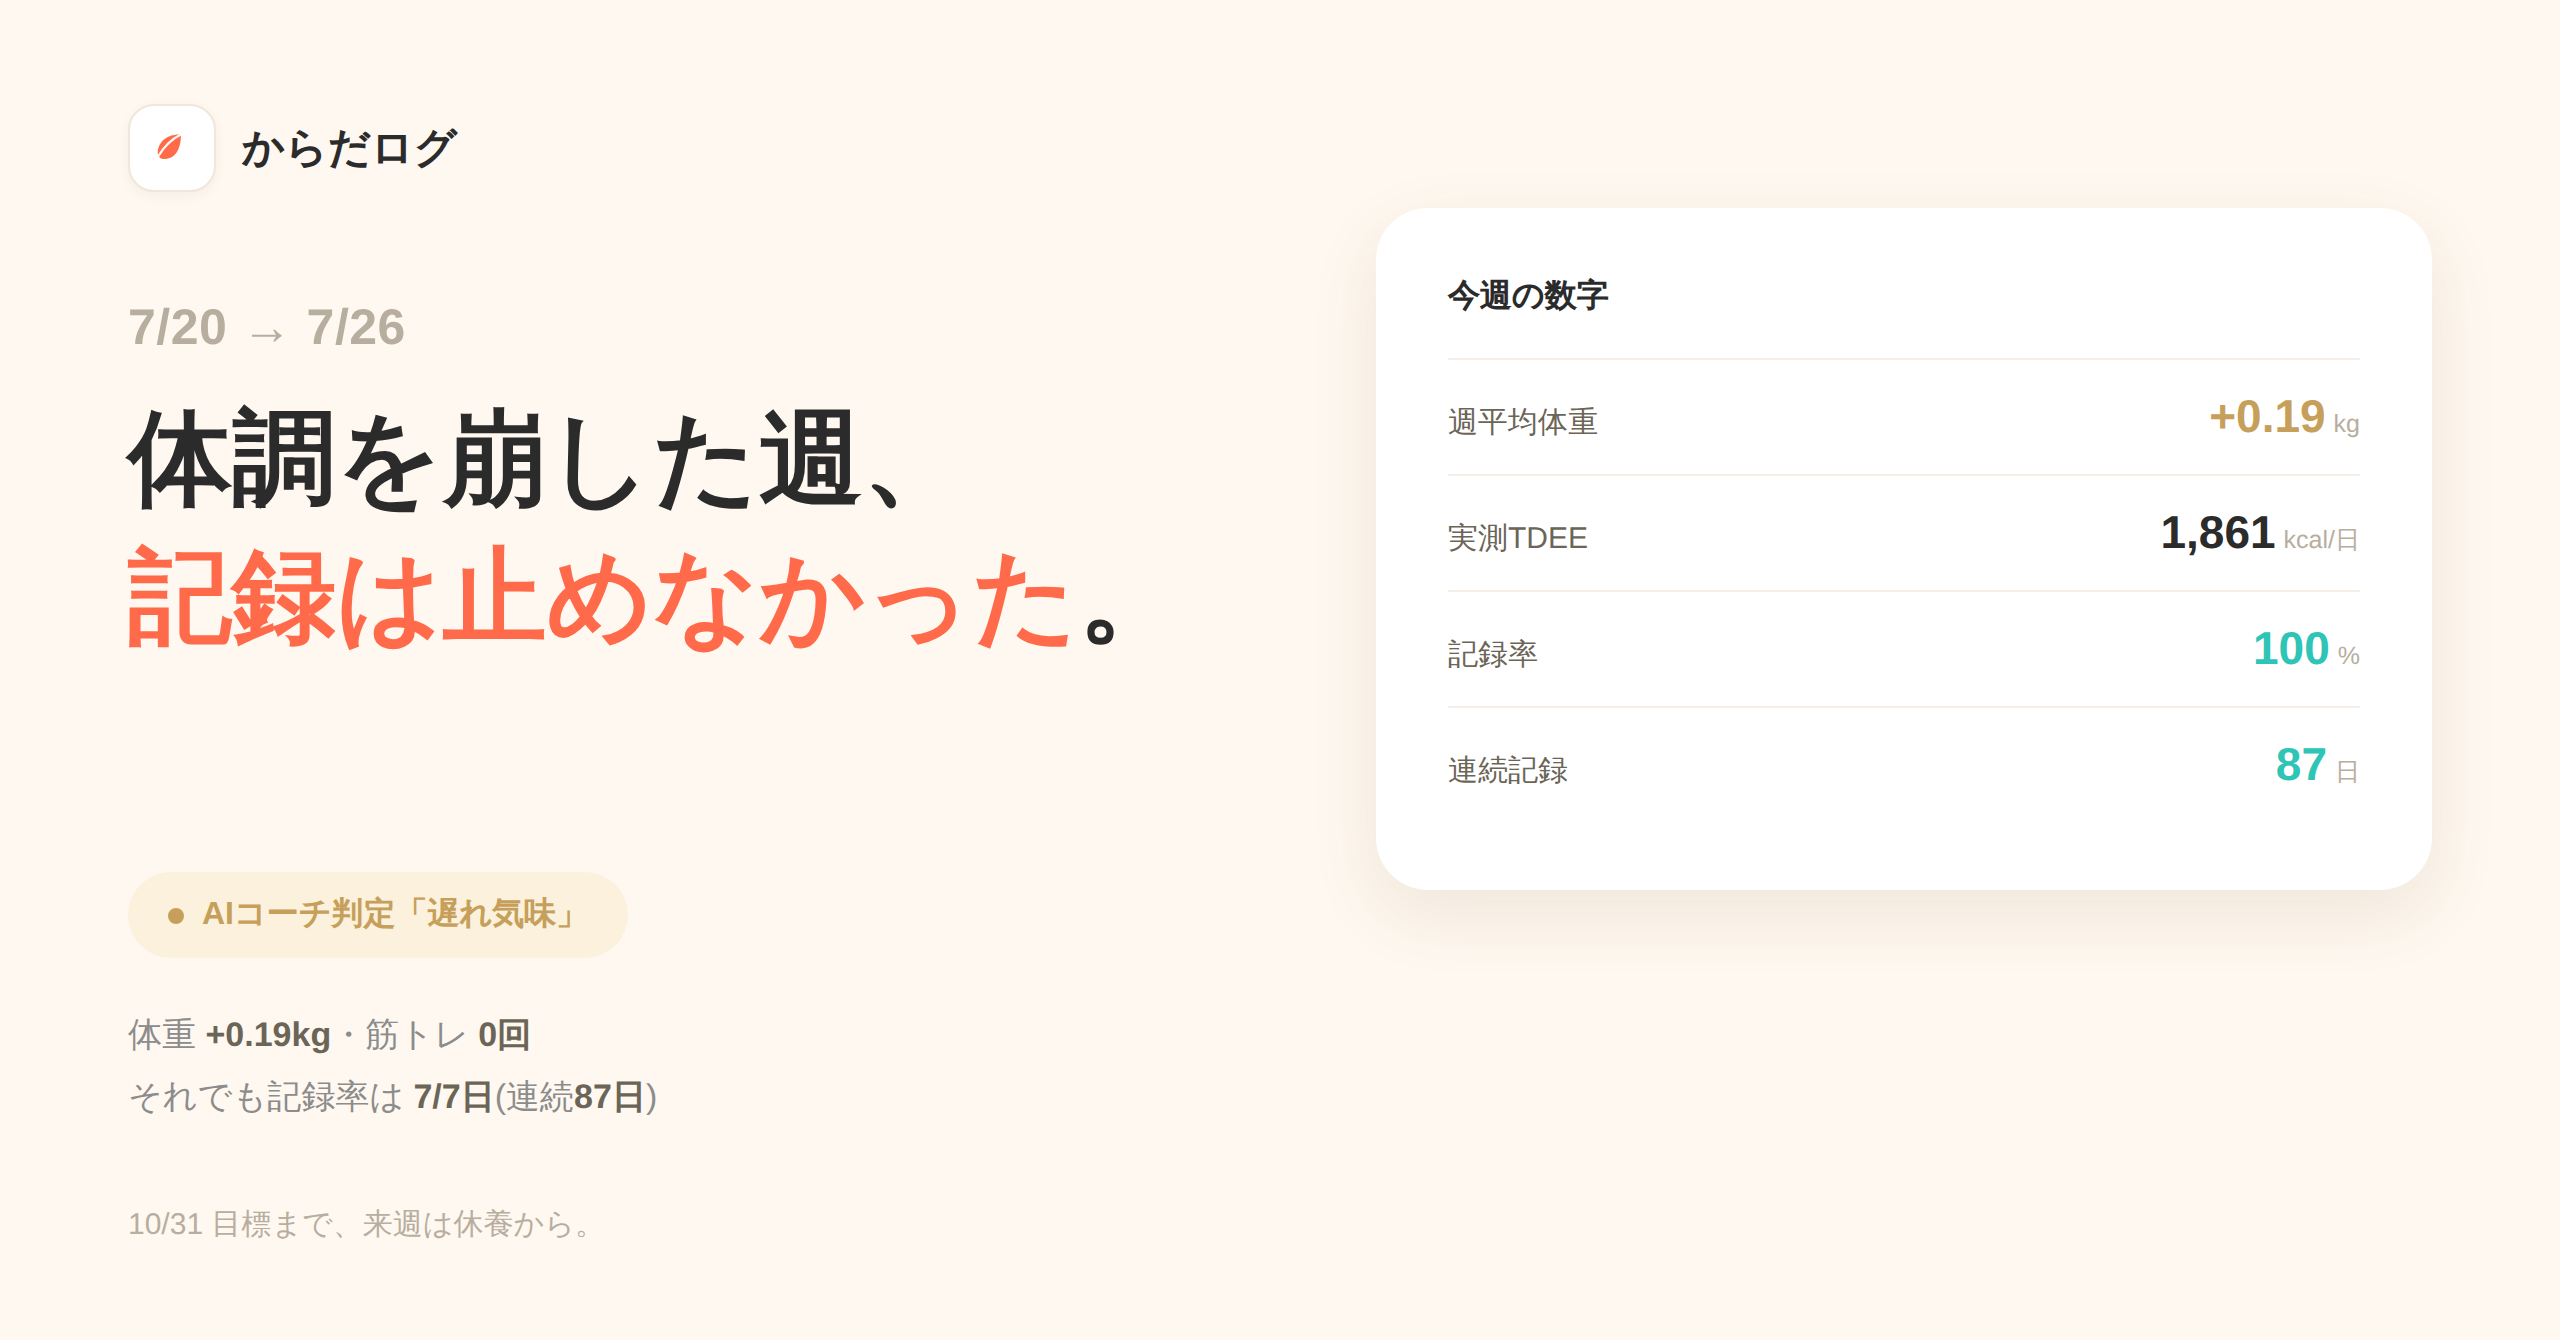
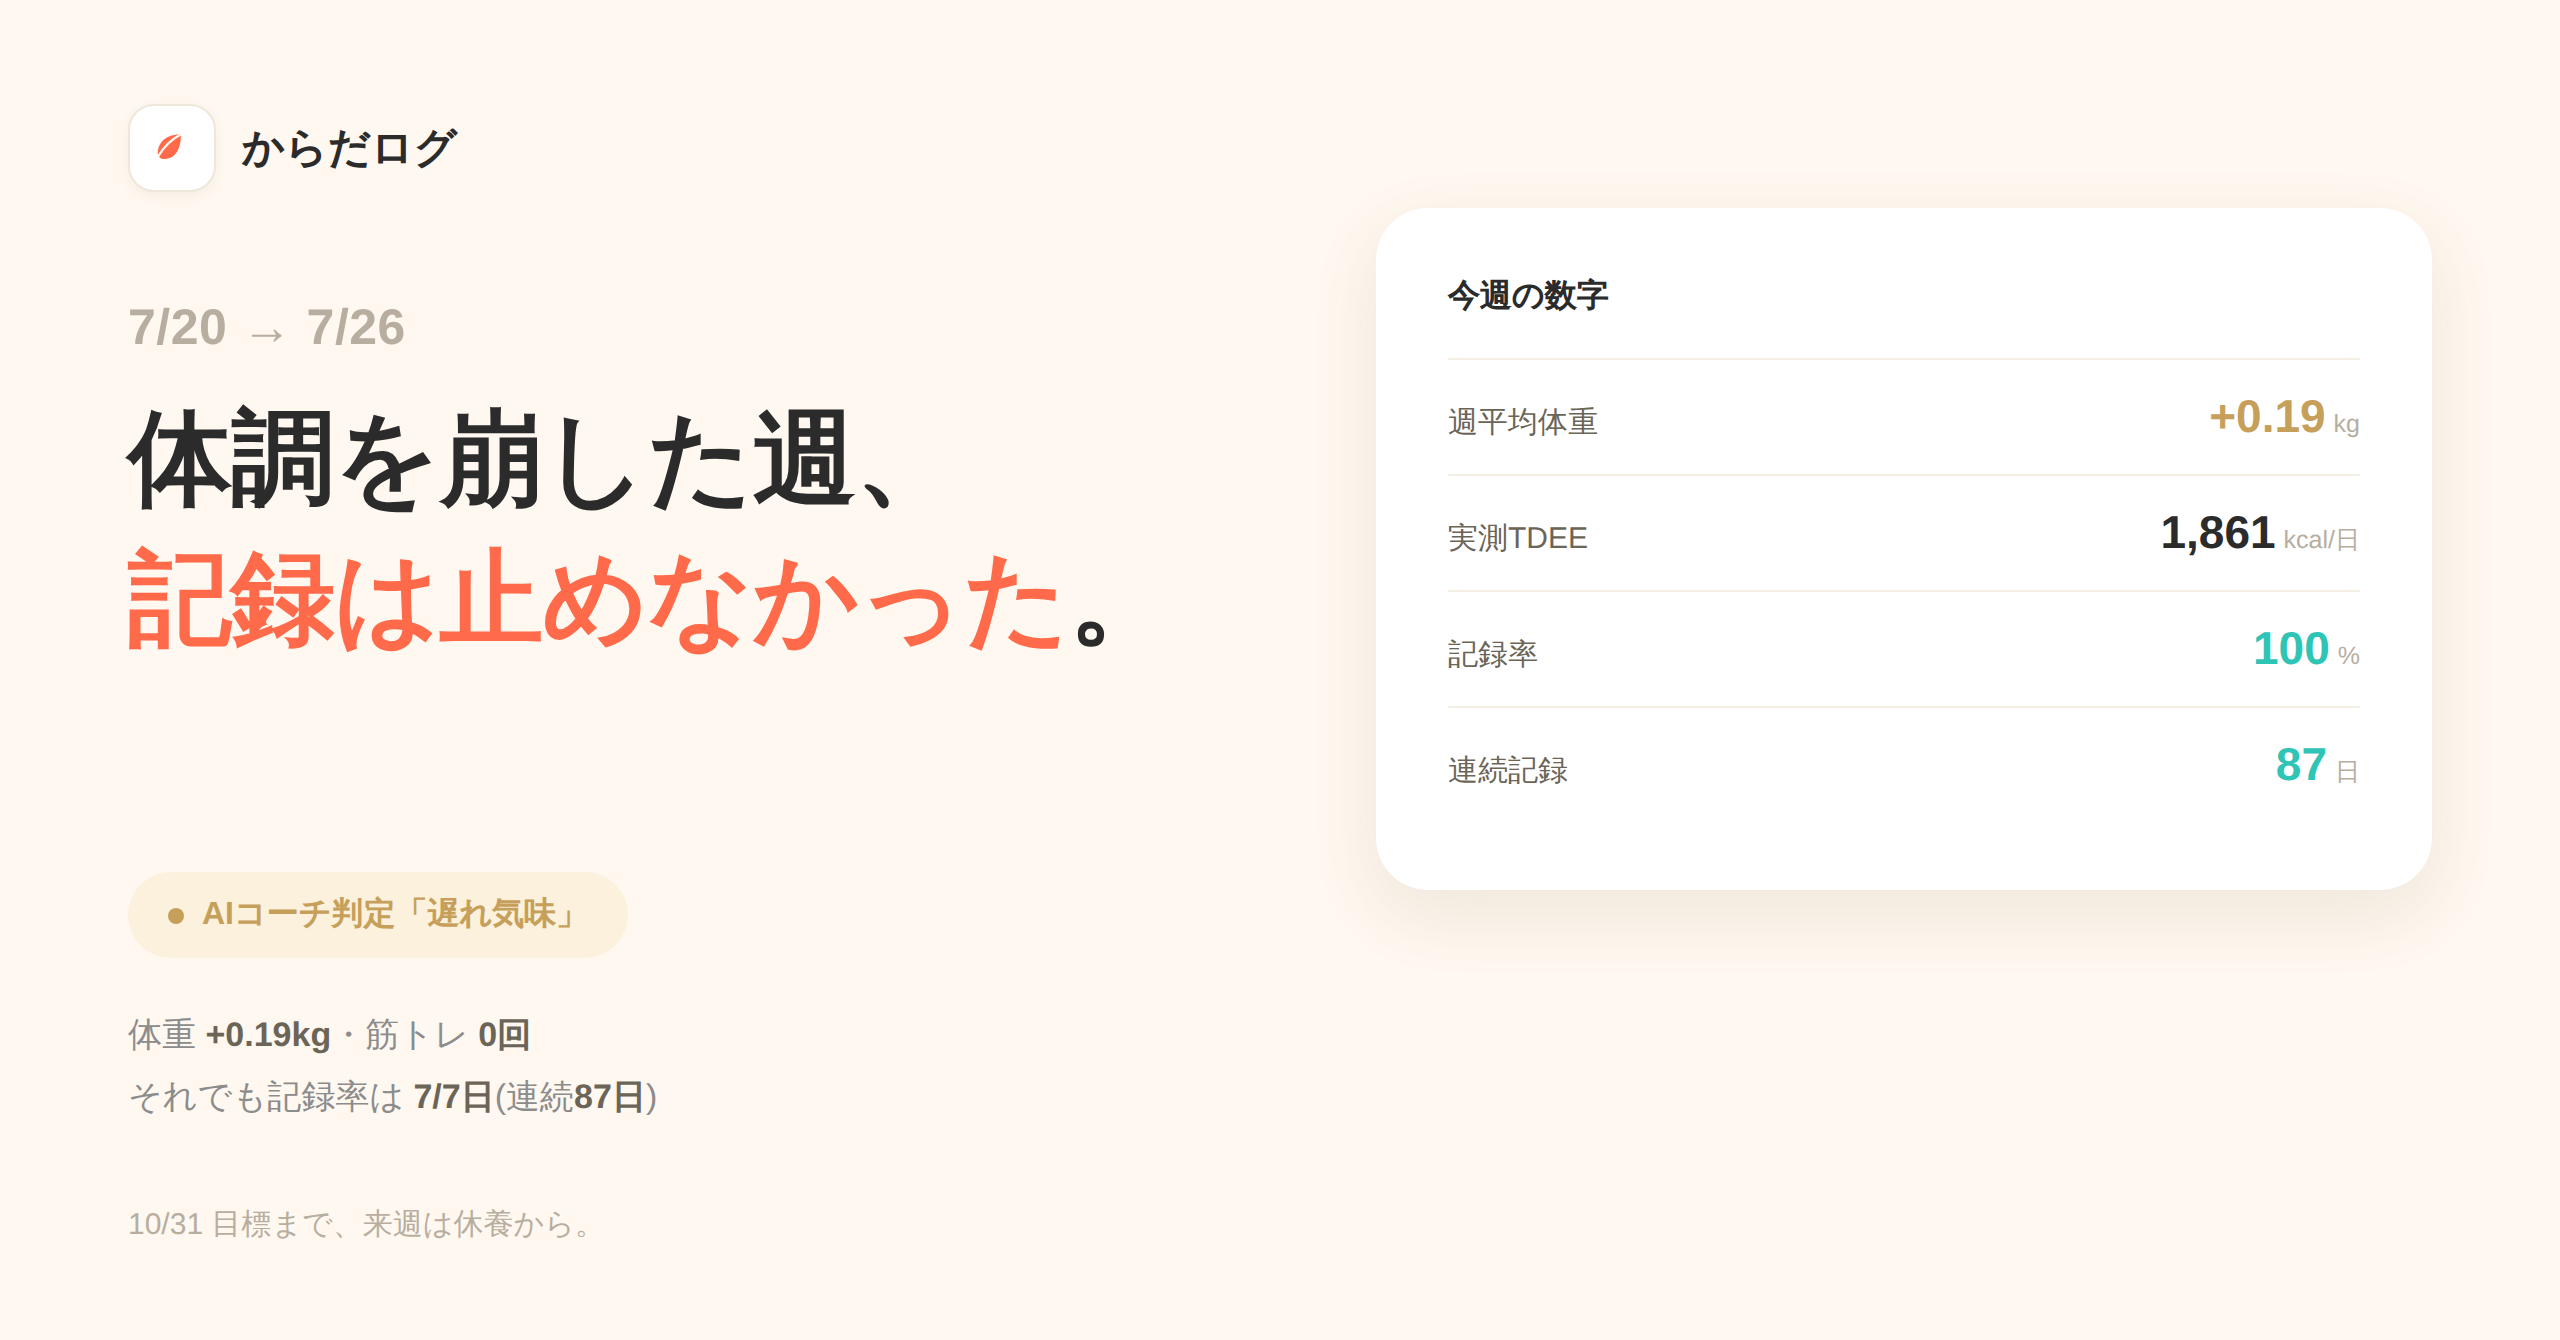
note03のサムネイル見出しフォントをZen Kaku Gothic Newに変更する
丸ゴシック(M PLUS Rounded 1c)の見出しが「AI生成デザイン」に近い印象だったため、極太角ゴシックに差し替えた。データ数値側はアプリ本体との統一のためM PLUS Rounded 1cのまま残している。

Claude-Session: https://claude.ai/code/session_01Hcsz76rkj2pZ23vgy9iddG

Changed region(s): [[0.0312, 0.3978, 0.4375, 0.4896], [0.0938, 0.306, 0.3438, 0.3978]]

diff --git a/articles/README.md b/articles/README.md
@@ -90,4 +90,4 @@ Zennの技術記事は、バズ(はてブ・トレンド)の一発より、**具
 
 - 2026-07-16: note01・zenn01を公開。GitHub(`yotti773`)・Zenn/note/X(`yotti073`)のハンドル統一、リポジトリpublic化、MITライセンス追加、`zenn-content`リポジトリ作成、X投稿文の準備までを実施
 - 2026-07-22: note02(週次実験レポート第1弾・7/13週)を公開。週次レビュー画面の実データ(週平均体重・実測TDEE・AIコーチのコメント)を転記し、サムネイル(`note02_サムネ.png`)を作成。週1定型レポートの運用を開始
-- 2026-07-30: note03(週次実験レポート・7/20週)の下書きを追加。体調不良で体重増加・筋トレ0回という今週は「遅れ気味」週で、開発トピックも無かった(該当コミット無し)ため省略。タイトルは「体調を崩した週、記録は止めなかった」で確定し、サムネイル(`note03_サムネ.png`)も見出し主導型の案Aで作成済み
+- 2026-07-30: note03(週次実験レポート・7/20週)の下書きを追加。体調不良で体重増加・筋トレ0回という今週は「遅れ気味」週で、開発トピックも無かった(該当コミット無し)ため省略。タイトルは「体調を崩した週、記録は止めなかった」で確定し、サムネイル(`note03_サムネ.png`)も見出し主導型の案Aで作成。見出しフォントはM PLUS Rounded 1c(丸ゴシック)だと「AI生成デザイン」感が出るとの指摘を受け、Zen Kaku Gothic New(極太角ゴシック)に変更した

diff --git a/articles/note03_週次レポート_07-20_下書き.md b/articles/note03_週次レポート_07-20_下書き.md
@@ -4,7 +4,7 @@
 
 - タイトル欄(確定): **体調を崩した週、記録は止めなかった**
 - 見出しは貼り付け後にエディタで「見出し」を適用する(#記号が残った場合)
-- サムネイル: `note03_サムネ.png`(作成済み。案A「見出し主導型」— 見出し「体調を崩した週、記録は止めなかった」を主役にし、体重+0.19kg・筋トレ0回はサブ情報、記録率100%/連続87日をteal色で強調する構成。デザインモック: https://claude.ai/code/artifact/feb099e2-cb53-47e3-9a5b-c8e8d6cc1425)
+- サムネイル: `note03_サムネ.png`(作成済み。案A「見出し主導型」— 見出し「体調を崩した週、記録は止めなかった」を主役にし、体重+0.19kg・筋トレ0回はサブ情報、記録率100%/連続87日をteal色で強調する構成。見出しフォントはM PLUS Rounded 1c(丸ゴシック)だと「AI生成デザイン」感が出るため、Zen Kaku Gothic New(極太角ゴシック)に変更(2026-07-30、本人決定)。データ数値はアプリと統一するためM PLUS Rounded 1cのまま。デザインモック: https://claude.ai/code/artifact/feb099e2-cb53-47e3-9a5b-c8e8d6cc1425、フォント比較: https://claude.ai/code/artifact/14386d9f-9e6b-481f-bfbd-10538bba479c)
 - 本文中の画像は任意: アプリの推移画面(体重グラフ)のスクショを1枚入れると数字が伝わりやすい
 - 推奨ハッシュタグ: #個人開発 #AI #ダイエット記録 #減量 #週次レポート
 
